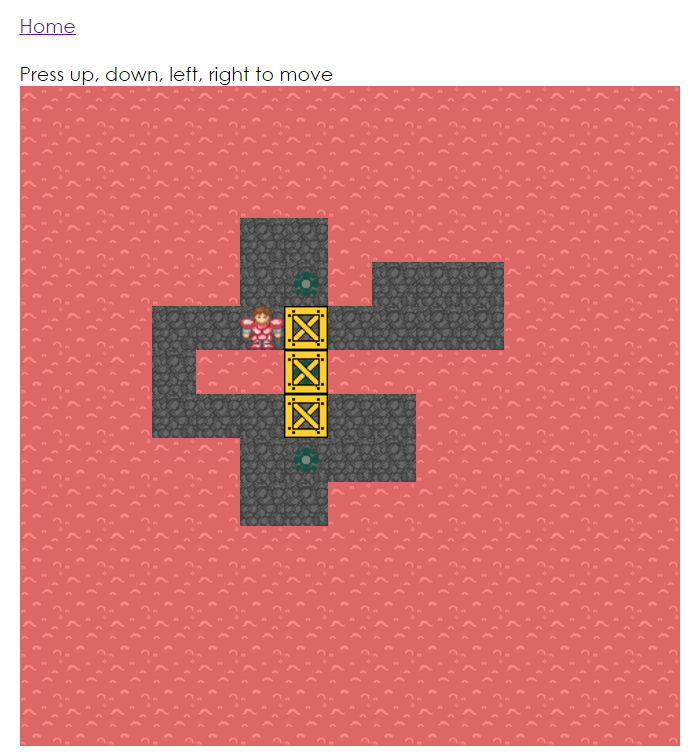
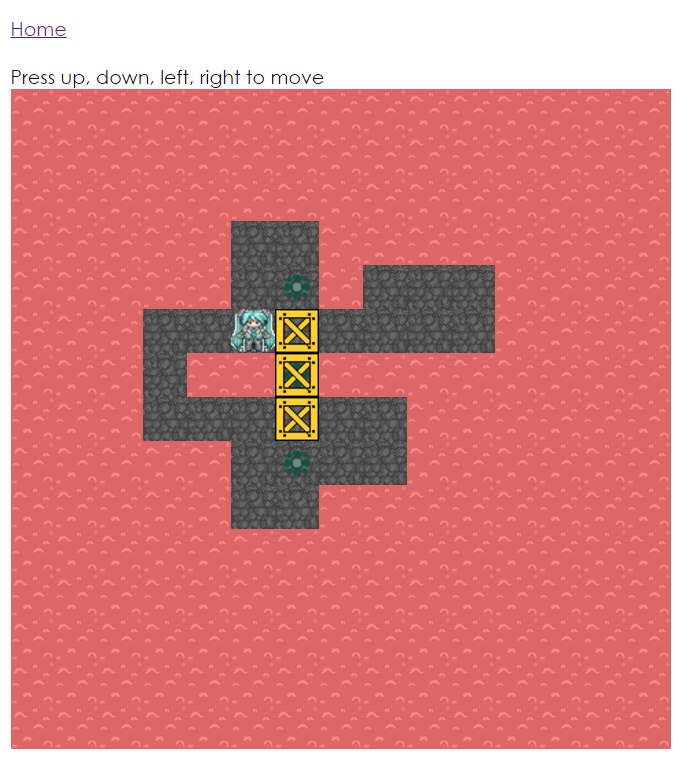
reset character

diff --git a/src/styles/components/sokoban/_sokoban.css b/src/styles/components/sokoban/_sokoban.css
@@ -12,7 +12,7 @@
       overflow: hidden;
       width: 32px; 
       height: 32px; 
-      background: transparent url(../assets/012-Braver02.png) repeat 0 0; 
+      background: transparent url(../assets/character1.png) repeat 0 0; 
       position: absolute; 
       left: 320px; 
       top: 320px;
